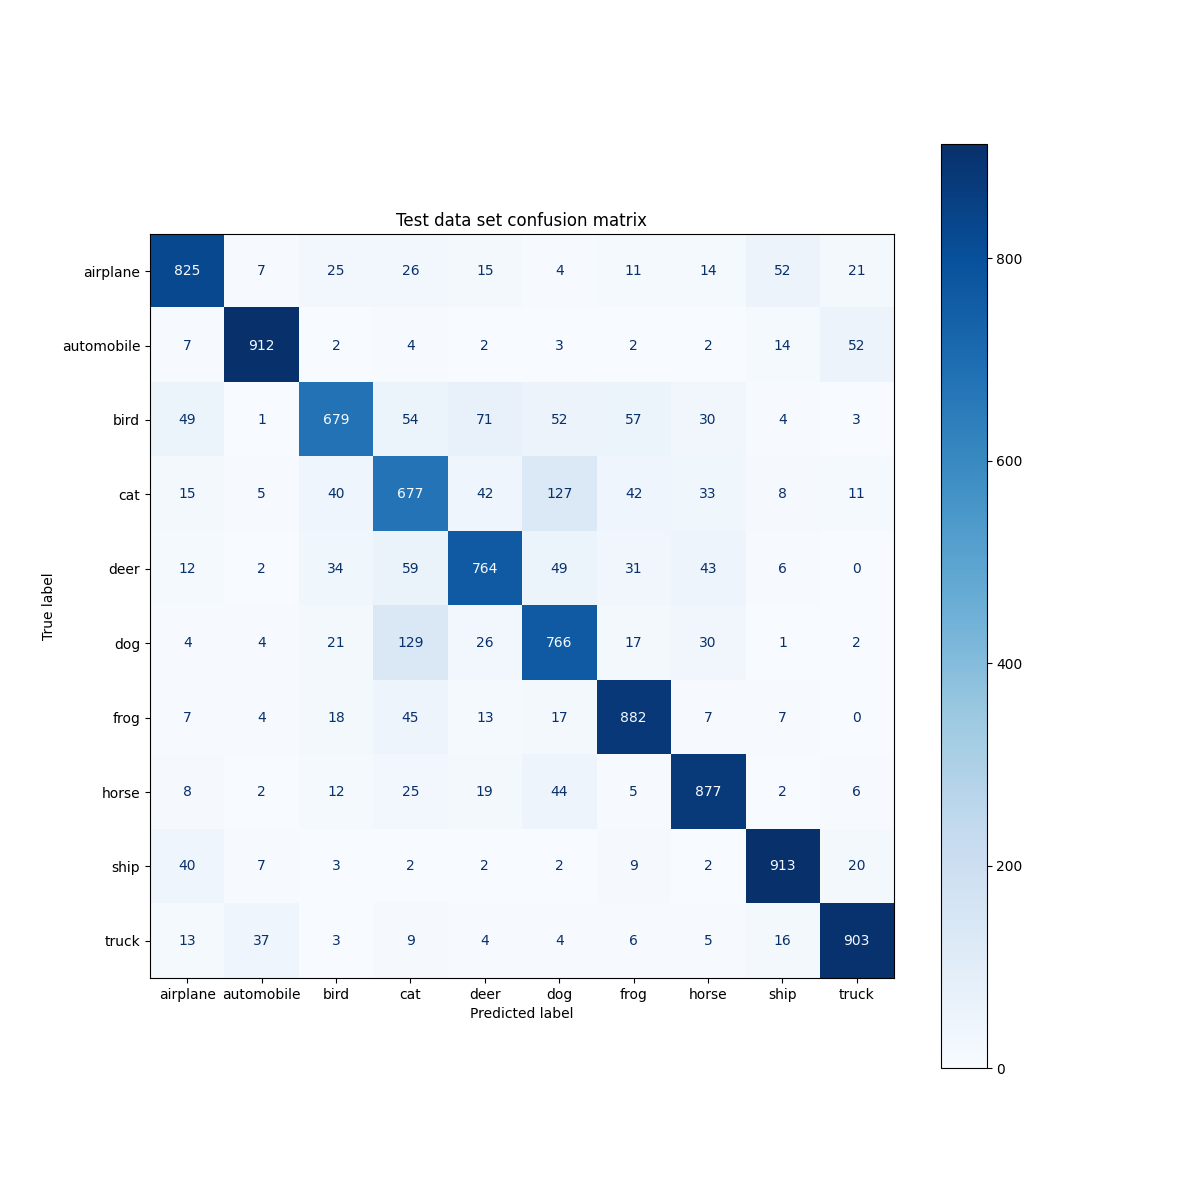
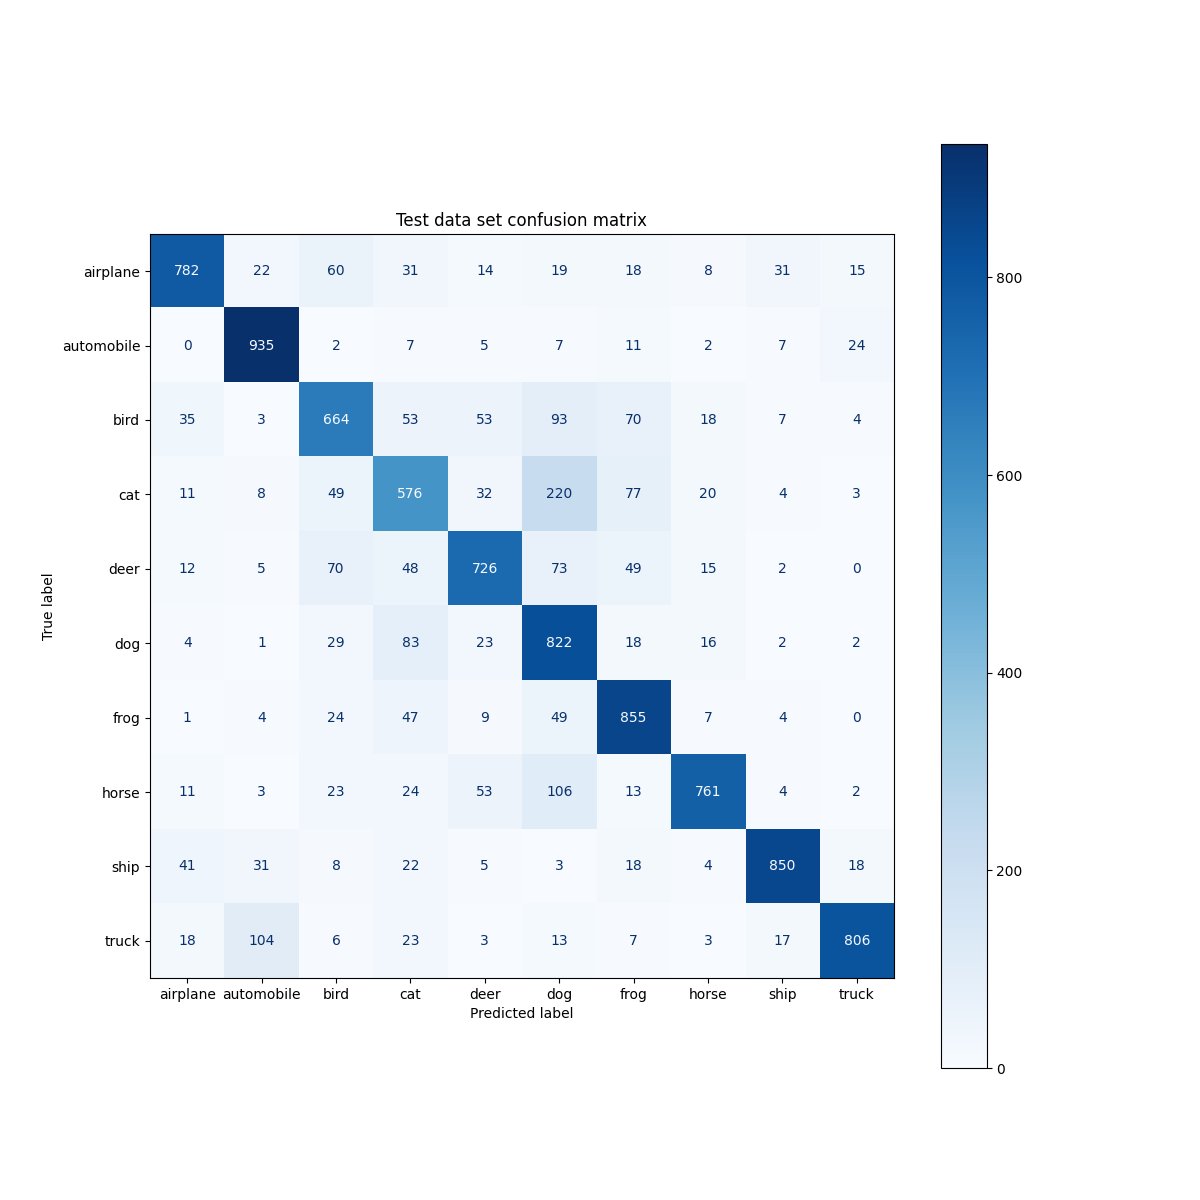
main-avg l2

diff --git a/final.py b/final.py
@@ -1773,21 +1773,42 @@ class FinalModel():
             tfl.BatchNormalization(),
             tfl.Conv2D(filters=32, kernel_size=(3, 3), activation="relu", padding="same"),
             tfl.BatchNormalization(),
-            tfl.AveragePool2D(),
+            tfl.AveragePooling2D(),
             tfl.Conv2D(filters=64, kernel_size=(3, 3), activation="relu", padding="same"),
             tfl.BatchNormalization(),
             tfl.Conv2D(filters=64, kernel_size=(3, 3), activation="relu", padding="same"),
             tfl.BatchNormalization(),
-            tfl.AveragePool2D(),
+            tfl.AveragePooling2D(),
             tfl.Conv2D(filters=128, kernel_size=(3, 3), activation="relu", padding="same"),
             tfl.BatchNormalization(),
             tfl.Conv2D(filters=128, kernel_size=(3, 3), activation="relu", padding="same"),
             tfl.BatchNormalization(),
-            tfl.AveragePool2D(),
+            tfl.AveragePooling2D(),
             tfl.Flatten(),
             tfl.Dropout(0.5),
             tfl.Dense(256, activation="relu"),
             tfl.Dropout(0.5),
+            tfl.Dense(10, activation="softmax")
+        ])
+
+        self.model_l2 = tfm.Sequential([
+            tfl.Conv2D(filters=32, kernel_size=(3, 3), activation="relu", padding="same"),
+            tfl.BatchNormalization(),
+            tfl.Conv2D(filters=32, kernel_size=(3, 3), activation="relu", padding="same"),
+            tfl.BatchNormalization(),
+            tfl.MaxPool2D(),
+            tfl.Conv2D(filters=64, kernel_size=(3, 3), activation="relu", padding="same"),
+            tfl.BatchNormalization(),
+            tfl.Conv2D(filters=64, kernel_size=(3, 3), activation="relu", padding="same"),
+            tfl.BatchNormalization(),
+            tfl.MaxPool2D(),
+            tfl.Conv2D(filters=128, kernel_size=(3, 3), activation="relu", padding="same"),
+            tfl.BatchNormalization(),
+            tfl.Conv2D(filters=128, kernel_size=(3, 3), activation="relu", padding="same"),
+            tfl.BatchNormalization(),
+            tfl.MaxPool2D(),
+            tfl.Flatten(),
+            tfl.Dense(256, activation="relu", kernel_regularizer=tfr.L2(0.0001)),
             tfl.Dense(10, activation="softmax")
         ])
 
@@ -1808,6 +1829,13 @@ class FinalModel():
 
         self.plot_callback.plot()
     
+    def train_l2(self, x_train, y_train, epochs):
+        self.model_l2.compile(optimizer="adam", loss="categorical_crossentropy", metrics=["accuracy"])
+        self.model_l2.fit(x_train, y_train, epochs=epochs, batch_size=32, verbose=2, callbacks=self.plot_callback)
+        self.model_l2.save_weights("./models/final/l2_model")
+
+        self.plot_callback.plot()
+    
     def train_with_validation(self, x_train, y_train, epochs):
         self.model.compile(optimizer="adam", loss="categorical_crossentropy", metrics=["accuracy"])
         self.model.fit(x_train, y_train, epochs=epochs, validation_split=0.2, batch_size=32, verbose=2, callbacks=self.val_plot_callback)
@@ -1816,6 +1844,7 @@ class FinalModel():
         self.val_plot_callback.plot()
     
     def evaluate(self, x_test, y_test, dataset="Test", model="model"):
+        self.model = self.model_l2 # todo
         self.model.load_weights(f"./models/final/{model}").expect_partial()
         predictions = self.model.predict(x_test)
         predictions = np.argmax(predictions, axis=1)        
@@ -1931,7 +1960,7 @@ if __name__ == "__main__":
     #final_model.evaluate(x_test, y_test)
     #final_model.evaluate(x_perturb, y_perturb, "Perturbed")
     final_model = FinalModel()
-    final_model.train(x_train, y_train, 16)
-    final_model.evaluate(x_test, y_test, model="avg_pool_model")
-    final_model.evaluate(x_perturb, y_perturb, "Perturbed", model="avg_pool_model")
+    #final_model.train_l2(x_train, y_train, 16)
+    final_model.evaluate(x_test, y_test, model="l2_model")
+    final_model.evaluate(x_perturb, y_perturb, "Perturbed l2", model="l2_model")
 
